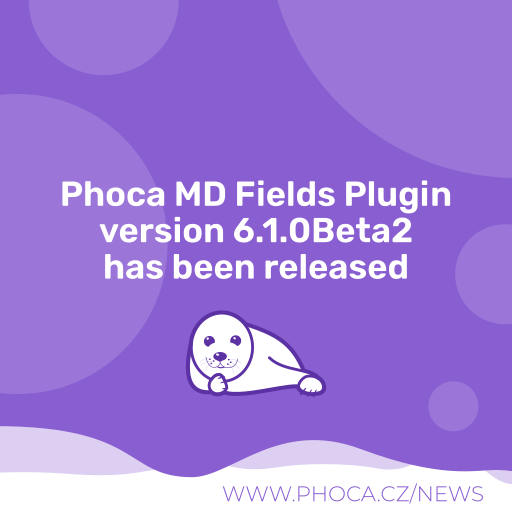
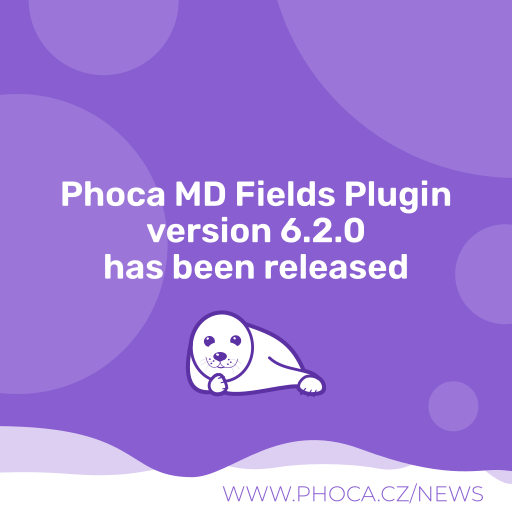
6.2.0

Changed region(s): [[0.1875, 0.4062, 0.8125, 0.5]]

diff --git a/src/Extension/Phocamd.php b/src/Extension/Phocamd.php
@@ -159,8 +159,14 @@ final class Phocamd extends FieldsPlugin implements SubscriberInterface
             $parsedown = new \Parsedown();
             $parsedown->setSafeMode(true);
 
-            $item->introtext = $parsedown->text($introSource);
-            $item->fulltext  = $fulltextSource !== '' ? $parsedown->text($fulltextSource) : '';
+            // Shared between intro and full text so that duplicate heading
+            // slugs stay unique across the whole article.
+            $usedIds = [];
+
+            $item->introtext = $this->addHeadingIds($parsedown->text($introSource), $usedIds);
+            $item->fulltext  = $fulltextSource !== ''
+                ? $this->addHeadingIds($parsedown->text($fulltextSource), $usedIds)
+                : '';
         } catch (\Throwable $e) {
             // Fail-safe: log the error and skip — never corrupt the article
             Log::add(
@@ -169,6 +175,62 @@ final class Phocamd extends FieldsPlugin implements SubscriberInterface
                 'plg_fields_phocamd'
             );
         }
+    }
+
+    // ─── Heading anchors ─────────────────────────────────────────────────
+
+    /**
+     * Add GitHub-style id attributes to all headings (h1–h6) so that links
+     * such as [Intro](#1-introduction) in a table of contents work.
+     *
+     * Parsedown itself does not generate ids. Slug rules mirror GitHub:
+     * lowercase, strip everything except letters/digits/space/_/-, spaces
+     * become hyphens, duplicates get -1, -2, ... suffixes.
+     *
+     * @param   string  $html     HTML produced by Parsedown.
+     * @param   array   &$usedIds Slugs already used in this article.
+     *
+     * @return  string
+     *
+     * @since   1.1.0
+     */
+    private function addHeadingIds(string $html, array &$usedIds): string
+    {
+        return (string) preg_replace_callback(
+            '/<h([1-6])(\s[^>]*)?>(.*?)<\/h\1>/is',
+            function (array $m) use (&$usedIds): string {
+                $level = $m[1];
+                $attrs = $m[2] ?? '';
+                $inner = $m[3];
+
+                // Respect an id that is already present
+                if (preg_match('/\sid\s*=/i', $attrs)) {
+                    return $m[0];
+                }
+
+                $text = html_entity_decode(strip_tags($inner), ENT_QUOTES | ENT_HTML5, 'UTF-8');
+                $slug = mb_strtolower(trim($text), 'UTF-8');
+                $slug = (string) preg_replace('/[^\p{L}\p{M}\p{N}\s_-]/u', '', $slug);
+                $slug = (string) preg_replace('/\s/u', '-', $slug);
+
+                if ($slug === '') {
+                    $slug = 'section';
+                }
+
+                $base = $slug;
+                $i    = 0;
+
+                while (isset($usedIds[$slug])) {
+                    $slug = $base . '-' . (++$i);
+                }
+
+                $usedIds[$slug] = true;
+
+                return '<h' . $level . $attrs . ' id="' . htmlspecialchars($slug, ENT_QUOTES, 'UTF-8') . '">'
+                    . $inner . '</h' . $level . '>';
+            },
+            $html
+        );
     }
 
     // ─── Admin form field customisation ──────────────────────────────────

diff --git a/README.MD b/README.MD
@@ -20,65 +20,61 @@ Our compliance with the principles of free and open-source software is establish
 
 *This repository is a shared community resource dedicated to the global open-source ecosystem.*
 
+### Community Feedback & Contributions
 
-## Project page
+We welcome your feedback and active involvement. You can join the development and follow the progress on public, independent GitHub pages at [https://github.com/PhocaCz](https://github.com/PhocaCz).
+Any feedback, bug reports, feature suggestions, or code improvements can be submitted transparently via **GitHub Issues** or **Pull Requests** within the respective repository.
 
-[Phoca MD Fields Plugin](https://www.phoca.cz/)
+### Accompanying External Resources
 
+If you need additional information beyond this GitHub repository, further documentation, updates, and community channels are available on the following external websites:
 
+#### External Project Information
 
-## Documentation
-
-[Documentation](https://www.phoca.cz/documentation/)
-
-
-
-
-
-## Support
-
-[Phoca Forum](https://www.phoca.cz/forum)
-
-:bell: [Phoca Forum RSS](https://www.phoca.cz/forum/app.php/feed)
+- [Phoca MD Fields Plugin](https://www.phoca.cz/)
+- [Project is listed on Joomla Extensions Directory](https://extensions.joomla.org/)
+- [Project is listed on Phoca download directory](https://www.phoca.cz/download)
 
 
+#### External Documentation
 
-## News
-
-[Phoca News](https://www.phoca.cz/news)
-
-:bell: [Phoca News RSS](https://www.phoca.cz/news?format=feed&type=rss)
-
-:bell: [Phoca Latest Releases RSS](https://www.phoca.cz/download/feed/111?format=feed&type=rss)
+- [Documentation](https://www.phoca.cz/documentation/)
 
 
+#### External Community Support
 
-## Demo
+- [Phoca Forum](https://www.phoca.cz/forum)
+- [Joomla Forum](https://forum.joomla.org/)
+- [Joomlaportal.cz Forum - Czech](https://www.joomlaportal.cz/forum)
+- [Joomla.de Supportforum - German](https://forum.joomla.de/)
+- :bell: [Phoca Forum RSS](https://www.phoca.cz/forum/app.php/feed)
 
-[Phoca](https://www.phoca.cz)
+
+#### External News & Feeds
+
+- [Phoca News](https://www.phoca.cz/news)
+- [Joomlaportal.cz News](https://www.joomlaportal.cz/novinky)
+- :bell: [Phoca News RSS](https://www.phoca.cz/news?format=feed&type=rss)
+- :bell: [Phoca Latest Releases RSS](https://www.phoca.cz/download/feed/111?format=feed&type=rss)
 
 
+#### Demo
 
+- [Phoca](https://www.phoca.cz)
 
+### Version (Joomla! 6.x)
+6.2.0
 
-## License
+### License
 
 GNU/GPL
 
-
-
 This project is open source project - feel free to contribute! Thank you.
 
-
-
-## Social Media
+### Social Media
 
 - [Phoca on Facebook](https://www.facebook.com/Phoca.cz)
-
 - [Phoca on X (Twitter)](https://twitter.com/PhocaCz)
-
 - [Phoca on YouTube](https://www.youtube.com/user/phocavideos)
-
 - [Phoca on GitHub](https://github.com/PhocaCz)
-
 - [Phoca on Reddit](https://www.reddit.com/user/PhocaCz)

diff --git a/FOSS.md b/FOSS.md
@@ -1,0 +1,13 @@
+Free and Open Source Software (FOSS) Declaration
+
+This project is developed, distributed, and maintained strictly as **Free and Open Source Software (FOSS)**. It is provided entirely outside the course of any commercial activity as an independent public resource.
+
+Our compliance with the principles of free and open-source software is established by the following structural and operational guidelines:
+
+* **Strictly Non-Commercial & Public Good:** This software is provided 100% free of charge. No commercial entities control or fund this repository, and there are no commercial monetization models, paid subscriptions, or premium paywalls associated with this codebase.
+* **Independent Volunteer Contributions:** The development, maintenance, and testing of this extension are driven entirely by independent, voluntary contributions from the global community.
+* **No Commercial Technical Support:** Technical support is not provided as a paid commercial service by the maintainers of this repository. Community assistance is available on a voluntary, non-binding basis via public forums.
+* **No Proprietary Lock-in:** The software is licensed under the copyleft GNU General Public License (GPL). You have absolute freedom to run, study, share, modify, and redistribute the code.
+* **Decentralized Infrastructure:** This codebase is hosted in a public, transparent repository on GitHub to foster open collaborative development and public peer review, ensuring safety and quality through community vigilance.
+
+*This repository is a shared community resource dedicated to the global open-source ecosystem.*
